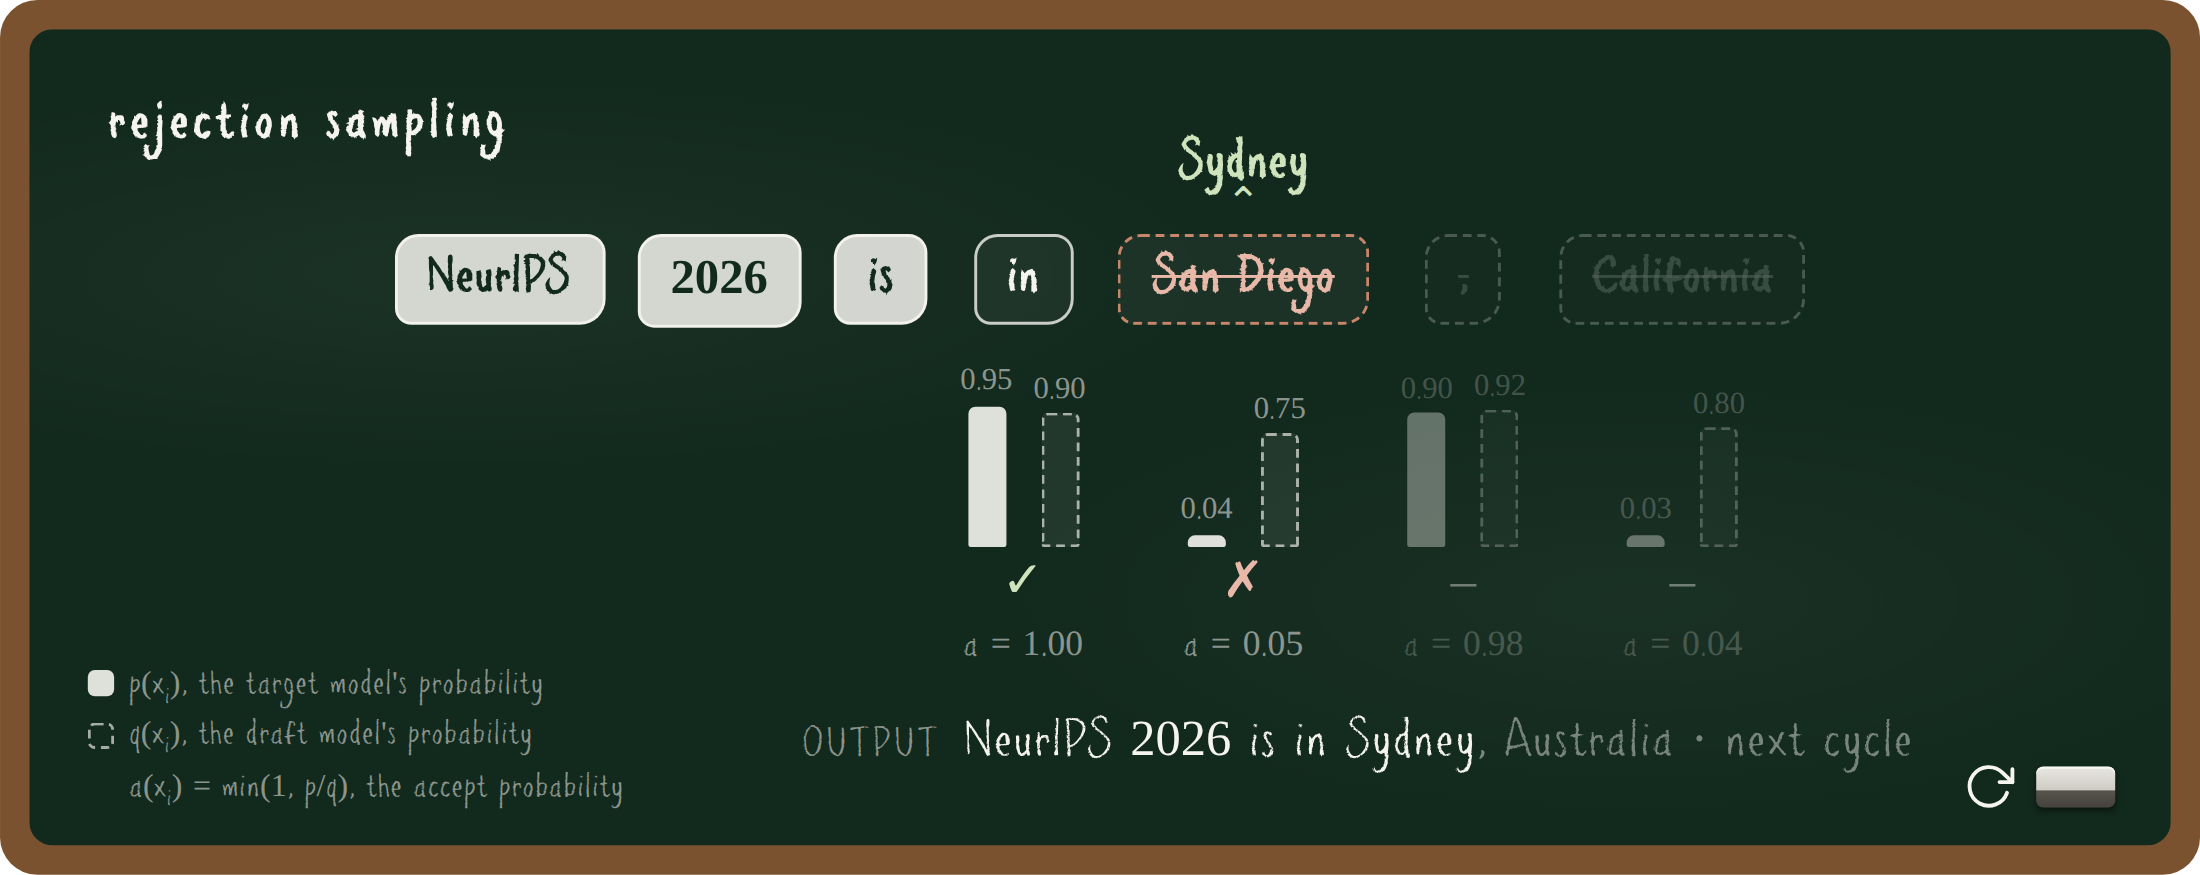
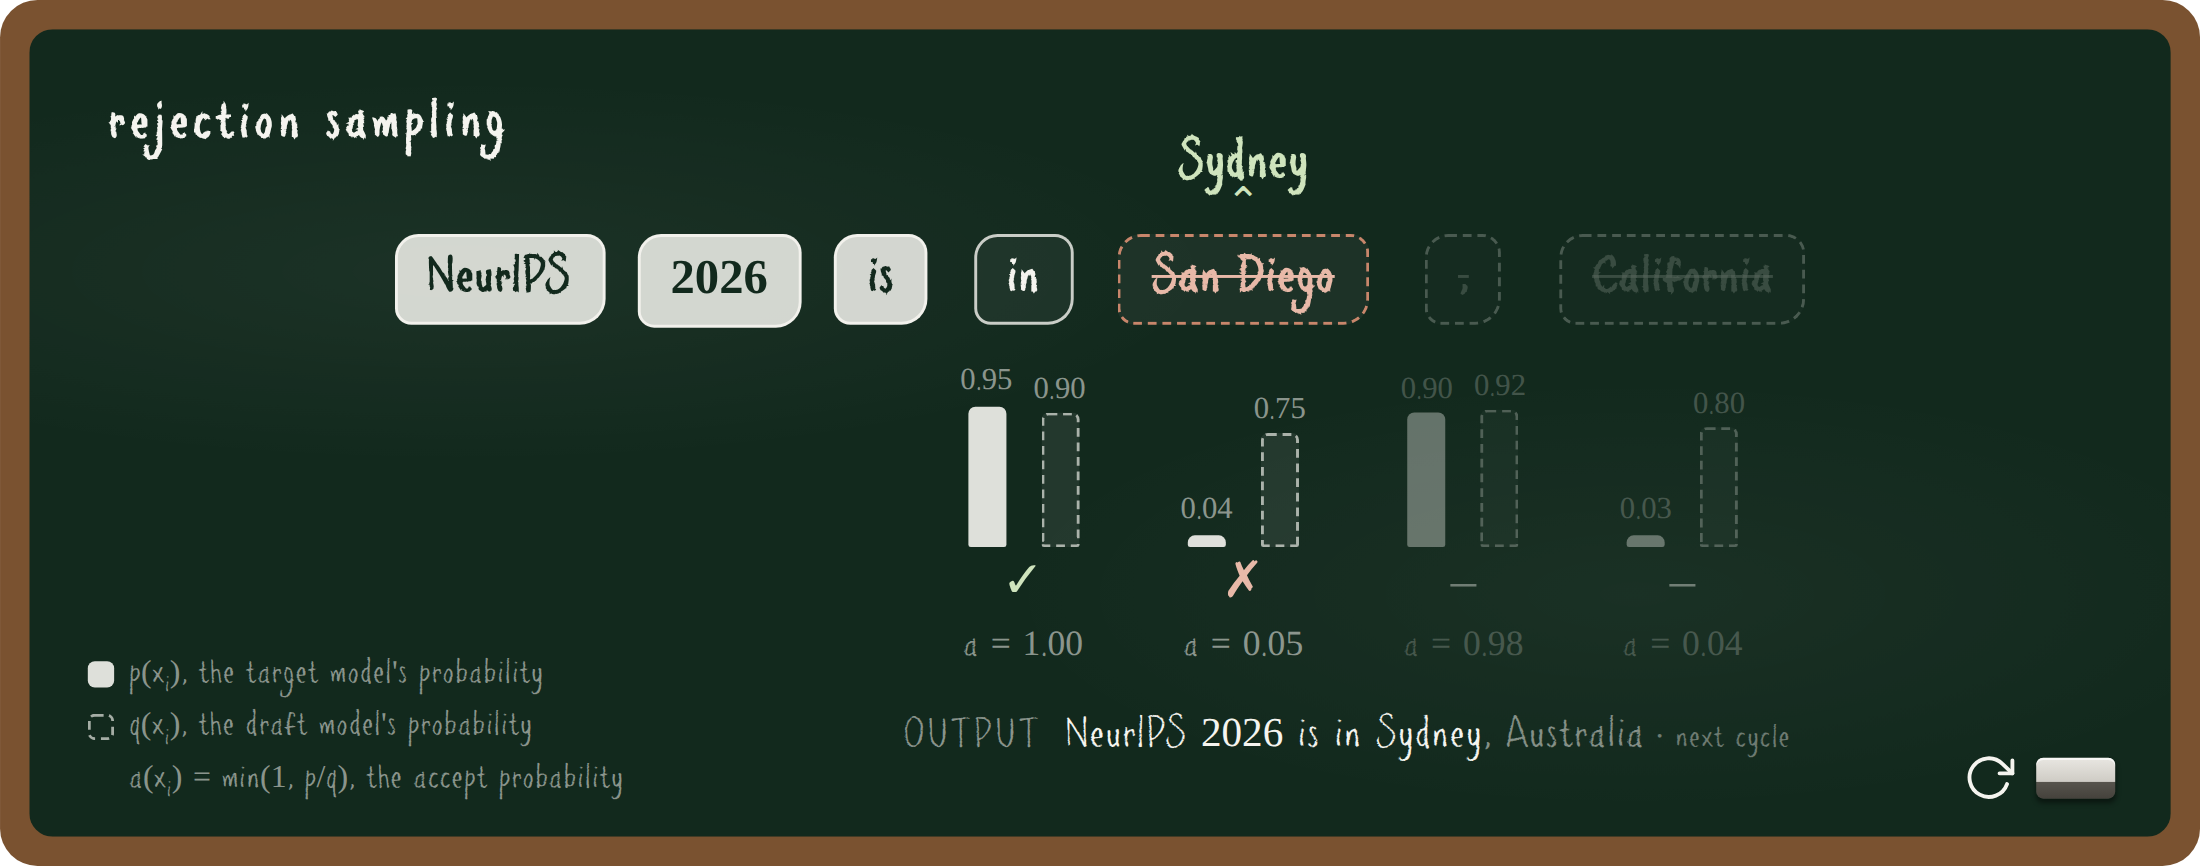
Figure 2 output line: fixed left anchor, smaller type
The OUTPUT line is now left-aligned at a fixed position so text grows
rightward like chalk writing instead of re-centering on every token;
output text is smaller and the next-cycle note smaller still.

Claude-Session: https://claude.ai/code/session_01JAtQPTrzaSnP7oEszTaoFN

diff --git a/submission/figures/rejection_sampling_chalk-v1.html b/submission/figures/rejection_sampling_chalk-v1.html
@@ -74,7 +74,7 @@ body{margin:0;padding:0;background:transparent;font-family:Georgia,serif}
 .barlegend .sw.q{border:1.6px dashed rgba(245,244,239,.65)}
 .barlegend .sw.a{visibility:hidden}
 .barlegend sub{font-size:.72em}
-.outline{margin-top:14px;font-size:1.35rem;text-align:center;min-height:34px;padding-left:220px}
+.outline{margin-top:14px;font-size:1.1rem;text-align:left;min-height:30px;padding-left:340px}
 .outline .k{color:var(--chalk-dim);font-size:1.02rem;letter-spacing:.08em;margin-right:10px}
 .replay{
   position:absolute;bottom:14px;right:24px;z-index:2;
@@ -112,7 +112,7 @@ body{margin:0;padding:0;background:transparent;font-family:Georgia,serif}
     {w:'California', p:'0.03', q:'0.80', a:'0.04', kind:'dim'}
   ];
   var OUT0 = 'NeurIPS 2026 is';
-  var OUTNEXT = '<span style="opacity:.45">, Australia &middot; next cycle</span>';
+  var OUTNEXT = '<span style="opacity:.5">, Australia</span><span style="opacity:.4;font-size:.75em"> &middot; next cycle</span>';
 
   var sentence = document.getElementById('sentence');
   var output = document.getElementById('output');

diff --git a/submission/teaching_materials 2/interactive_site/figures/rejection_sampling_chalk-v1.html b/submission/teaching_materials 2/interactive_site/figures/rejection_sampling_chalk-v1.html
@@ -74,7 +74,7 @@ body{margin:0;padding:0;background:transparent;font-family:Georgia,serif}
 .barlegend .sw.q{border:1.6px dashed rgba(245,244,239,.65)}
 .barlegend .sw.a{visibility:hidden}
 .barlegend sub{font-size:.72em}
-.outline{margin-top:14px;font-size:1.35rem;text-align:center;min-height:34px;padding-left:220px}
+.outline{margin-top:14px;font-size:1.1rem;text-align:left;min-height:30px;padding-left:340px}
 .outline .k{color:var(--chalk-dim);font-size:1.02rem;letter-spacing:.08em;margin-right:10px}
 .replay{
   position:absolute;bottom:14px;right:24px;z-index:2;
@@ -112,7 +112,7 @@ body{margin:0;padding:0;background:transparent;font-family:Georgia,serif}
     {w:'California', p:'0.03', q:'0.80', a:'0.04', kind:'dim'}
   ];
   var OUT0 = 'NeurIPS 2026 is';
-  var OUTNEXT = '<span style="opacity:.45">, Australia &middot; next cycle</span>';
+  var OUTNEXT = '<span style="opacity:.5">, Australia</span><span style="opacity:.4;font-size:.75em"> &middot; next cycle</span>';
 
   var sentence = document.getElementById('sentence');
   var output = document.getElementById('output');

diff --git a/submission/teaching_materials/interactive_site/figures/rejection_sampling_chalk-v1.html b/submission/teaching_materials/interactive_site/figures/rejection_sampling_chalk-v1.html
@@ -74,7 +74,7 @@ body{margin:0;padding:0;background:transparent;font-family:Georgia,serif}
 .barlegend .sw.q{border:1.6px dashed rgba(245,244,239,.65)}
 .barlegend .sw.a{visibility:hidden}
 .barlegend sub{font-size:.72em}
-.outline{margin-top:14px;font-size:1.35rem;text-align:center;min-height:34px;padding-left:220px}
+.outline{margin-top:14px;font-size:1.1rem;text-align:left;min-height:30px;padding-left:340px}
 .outline .k{color:var(--chalk-dim);font-size:1.02rem;letter-spacing:.08em;margin-right:10px}
 .replay{
   position:absolute;bottom:14px;right:24px;z-index:2;
@@ -112,7 +112,7 @@ body{margin:0;padding:0;background:transparent;font-family:Georgia,serif}
     {w:'California', p:'0.03', q:'0.80', a:'0.04', kind:'dim'}
   ];
   var OUT0 = 'NeurIPS 2026 is';
-  var OUTNEXT = '<span style="opacity:.45">, Australia &middot; next cycle</span>';
+  var OUTNEXT = '<span style="opacity:.5">, Australia</span><span style="opacity:.4;font-size:.75em"> &middot; next cycle</span>';
 
   var sentence = document.getElementById('sentence');
   var output = document.getElementById('output');
